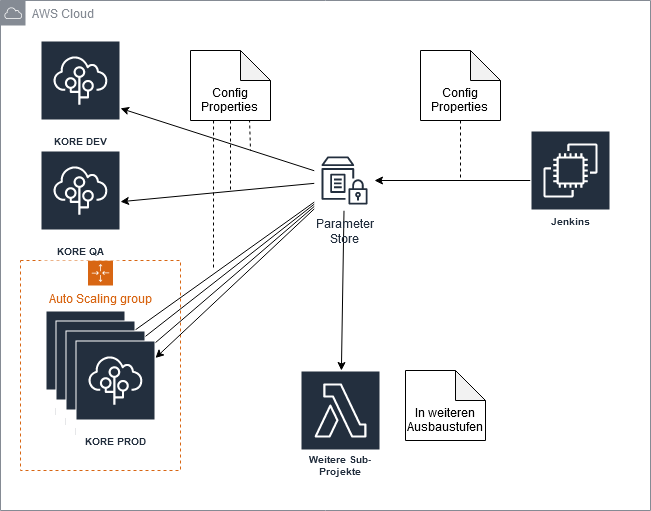
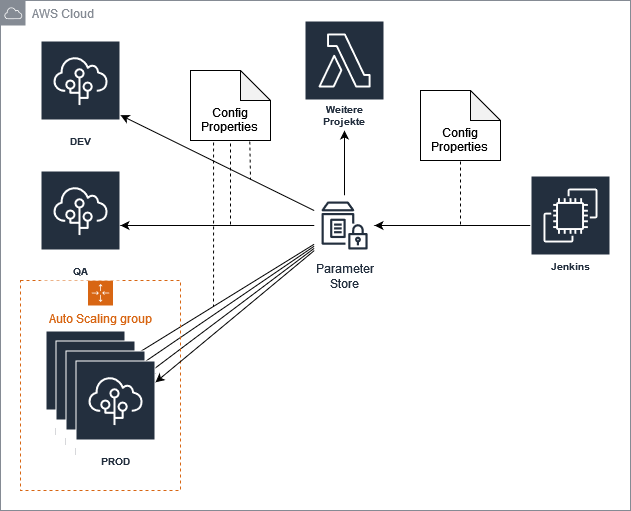
Bilder ausgetauscht

diff --git a/_posts/2021-10-24-configserver.md b/_posts/2021-10-24-configserver.md
@@ -106,6 +106,8 @@ Am Beispiel von AWS wäre dies der Parameter Store als Teil des AWS Systems Mana
 Umgebungsvariablen werden hier in einer Baumstruktur abgelegt, die es ermöglicht diverse Projekte mit ihren jeweiligen Stages in Teilbäumen zu verwalten, welche dann einzeln abgefragt werden können.
 So könnte ein Pfad in der Form ```<projektname>/<stage>/db/url``` die Daten für die Connection-URL zu einer Datenbank enthalten.
 
+![Aufbau der Infrastruktur](/assets/images/posts/configserver/AWS-ParameterStore.png)
+
 ##Pro
 Ein Vorteil gegenüber selbst gehosteten Lösungen ist die vorbereitete Integration in andere von AWS angebotene Services, wie ECS, EC2, Lambda, Cloudformation, CodeBuild oder CodeDeploy.
 Darüber hinaus lässt sich aber auch hier ein beliebiges Sping-Boot-Projekt über einen Starter und eine zugehörige bootstrap.properties transparent anbinden.
